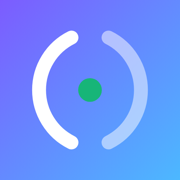
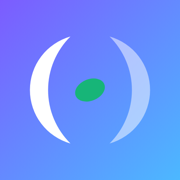
the duet is engraved: slurs instead of arcs, a notehead instead of a dot
"minimal like apple's own and the same type of idea as the old logo with it
helping you, but make it more music looking." The two arcs of even width
become two slurs — crescents, thick in the middle and tapering to points,
the way an engraver draws them — and the green dot becomes a tilted
notehead. Same idea, same balance; now it reads as music rather than as
parentheses. The icon, the share image, the launch screen and the wordmark
in the app all take it.

Claude-Session: https://claude.ai/code/session_01JCGju5XEzYqMseDfajtsww

diff --git a/index.html b/index.html
@@ -4710,7 +4710,7 @@
        instrument has ever been chosen, so it never flashes on a return visit. -->
   <div id="welcome" hidden>
     <div id="welcome-card" role="dialog" aria-labelledby="welcome-title" aria-modal="true">
-      <h2 id="welcome-title"><svg class="mark" viewBox="0 0 100 100" aria-hidden="true"><path d="M38 16 A 38 38 0 0 0 38 84" fill="none" stroke="currentColor" stroke-width="9" stroke-linecap="round"/><path d="M62 16 A 38 38 0 0 1 62 84" fill="none" stroke="currentColor" stroke-opacity="0.5" stroke-width="9" stroke-linecap="round"/><circle cx="50" cy="50" r="7.5" fill="var(--wordmark-dot)"/></svg>stand partner</h2>
+      <h2 id="welcome-title"><svg class="mark" viewBox="0 0 100 100" aria-hidden="true"><path d="M37 15 A36 36 0 0 0 37 85 A49 49 0 0 1 37 15Z" fill="currentColor"/><path d="M63 15 A36 36 0 0 1 63 85 A49 49 0 0 0 63 15Z" fill="currentColor" fill-opacity="0.5"/><ellipse cx="50" cy="50" rx="10" ry="7" fill="var(--wordmark-dot)" transform="rotate(-22 50 50)"/></svg>stand partner</h2>
       <p class="welcome-lead">It listens while you practice and tells you what actually
       happened — which notes ran sharp or flat, where the tempo moved, and how cleanly
       you land after a leap.</p>
@@ -4735,7 +4735,7 @@
     </div>
   </div>
   <header>
-    <h1><svg class="mark" viewBox="0 0 100 100" aria-hidden="true"><path d="M38 16 A 38 38 0 0 0 38 84" fill="none" stroke="currentColor" stroke-width="9" stroke-linecap="round"/><path d="M62 16 A 38 38 0 0 1 62 84" fill="none" stroke="currentColor" stroke-opacity="0.5" stroke-width="9" stroke-linecap="round"/><circle cx="50" cy="50" r="7.5" fill="var(--wordmark-dot)"/></svg>stand partner</h1>
+    <h1><svg class="mark" viewBox="0 0 100 100" aria-hidden="true"><path d="M37 15 A36 36 0 0 0 37 85 A49 49 0 0 1 37 15Z" fill="currentColor"/><path d="M63 15 A36 36 0 0 1 63 85 A49 49 0 0 0 63 15Z" fill="currentColor" fill-opacity="0.5"/><ellipse cx="50" cy="50" rx="10" ry="7" fill="var(--wordmark-dot)" transform="rotate(-22 50 50)"/></svg>stand partner</h1>
     <button id="settings-btn" type="button" aria-label="Settings">
       <svg viewBox="0 0 24 24" fill="none" stroke="currentColor" stroke-width="1.7" stroke-linecap="round" stroke-linejoin="round">
         <path d="M12.22 2h-.44a2 2 0 0 0-2 2v.18a2 2 0 0 1-1 1.73l-.43.25a2 2 0 0 1-2 0l-.15-.08a2 2 0 0 0-2.73.73l-.22.38a2 2 0 0 0 .73 2.73l.15.1a2 2 0 0 1 1 1.72v.51a2 2 0 0 1-1 1.74l-.15.09a2 2 0 0 0-.73 2.73l.22.38a2 2 0 0 0 2.73.73l.15-.08a2 2 0 0 1 2 0l.43.25a2 2 0 0 1 1 1.73V20a2 2 0 0 0 2 2h.44a2 2 0 0 0 2-2v-.18a2 2 0 0 1 1-1.73l.43-.25a2 2 0 0 1 2 0l.15.08a2 2 0 0 0 2.73-.73l.22-.39a2 2 0 0 0-.73-2.73l-.15-.08a2 2 0 0 1-1-1.74v-.5a2 2 0 0 1 1-1.74l.15-.09a2 2 0 0 0 .73-2.73l-.22-.38a2 2 0 0 0-2.73-.73l-.15.08a2 2 0 0 1-2 0l-.43-.25a2 2 0 0 1-1-1.73V4a2 2 0 0 0-2-2z" />

diff --git a/tools/icon.html b/tools/icon.html
@@ -70,16 +70,18 @@
 </head>
 <body>
   <div class="tile">
-    <!-- Duet: two arcs turned toward each other, meeting on the note they
-         agree about. One of them is you and one is the thing listening — the
-         only mark of the six that would not have suited a plain tuner, which
-         is the whole reason the app has a different name now. -->
+    <!-- Duet, engraved: two slurs turned toward each other, meeting on the
+         note they agree about. One of them is you and one is the thing
+         listening. They used to be plain arcs of even width; drawn as slurs —
+         a crescent, thick in the middle and tapering to a point at each end,
+         the way an engraver draws one — and with a tilted notehead in place of
+         the dot, the same mark reads as music rather than as parentheses.
+         "minimal like apple's own and the same type of idea as the old logo
+         with it helping you, but make it more music looking." -->
     <svg class="gauge" viewBox="0 0 300 300" width="512" height="512" aria-hidden="true">
-      <path d="M114 48 A 114 114 0 0 0 114 252" fill="none"
-            stroke="currentColor" stroke-width="27" stroke-linecap="round" />
-      <path d="M186 48 A 114 114 0 0 1 186 252" fill="none"
-            stroke="currentColor" stroke-opacity="0.5" stroke-width="27" stroke-linecap="round" />
-      <circle cx="150" cy="150" r="23" fill="#17b578" />
+      <path d="M112 46 A108 108 0 0 0 112 254 A146 146 0 0 1 112 46Z" fill="currentColor" />
+      <path d="M188 46 A108 108 0 0 1 188 254 A146 146 0 0 0 188 46Z" fill="currentColor" fill-opacity="0.5" />
+      <ellipse cx="150" cy="150" rx="30" ry="21" fill="#17b578" transform="rotate(-22 150 150)" />
     </svg>
     <div class="words" hidden>
       <h1>Stand Partner</h1>
